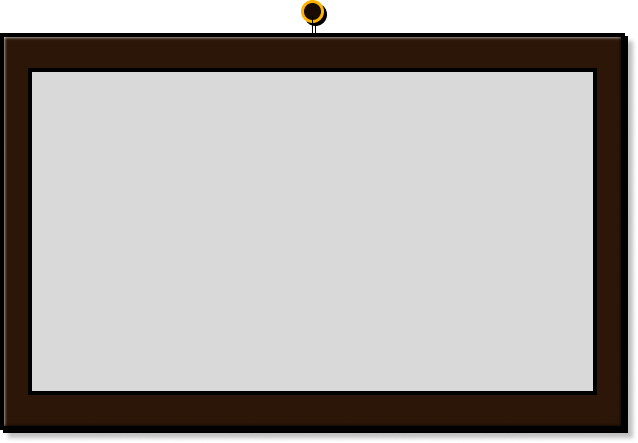
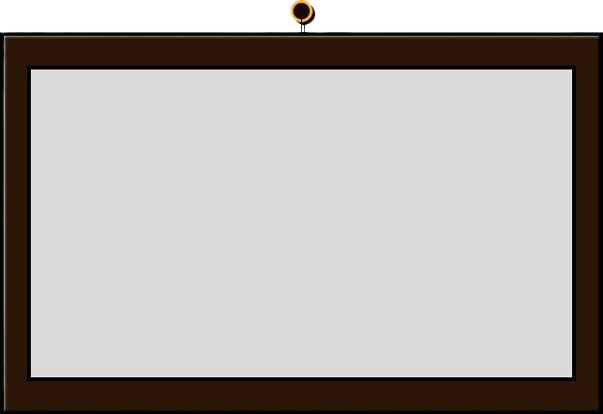
feat: update wallpaper frame art and recalculate photo cutout insets

Changed region(s): [[0.0, 0.0, 1.0, 1.0], [0.0, 0.2319, 0.0299, 0.7536]]

diff --git a/src/components/sections/portfolio/Wallpaper.tsx b/src/components/sections/portfolio/Wallpaper.tsx
@@ -20,11 +20,11 @@ interface WallpaperProps {
   externalUrl?: string;
 }
 
-// The frame's inner "photo" cutout, measured from Wallpaper.png (638x443):
-// top 16.25%, right 7.05%, bottom 11.74%, left 5.02% of the frame's own box.
+// The frame's inner "photo" cutout, measured from Wallpaper.png (603x414):
+// top 16.91%, right 5.14%, bottom 8.94%, left 5.14% of the frame's own box.
 // Insets are shrunk slightly beyond the measured cutout so the photo tucks
 // under the frame's border, hiding any sub-pixel rounding gap.
-const PHOTO_INSET = "15% 6% 10.5% 4.2%";
+const PHOTO_INSET = "15.6% 4% 7.5% 4.2%";
 
 const TITLE_PLATE_SHADOW =
   "4px 4px 4px 0 rgba(0,0,0,0.35), inset -2px -2px 2px 0 rgba(0,0,0,0.5), inset 2px 2px 2px 0 rgba(255,255,255,0.4)";
@@ -63,9 +63,32 @@ export default function Wallpaper({
   const [isOpen, setIsOpen] = useState(false);
   const [shouldRender, setShouldRender] = useState(false);
   const cardRef = useRef<HTMLElement>(null);
+  const innerRef = useRef<HTMLDivElement>(null);
   const backdropRef = useRef<HTMLDivElement>(null);
   const frameRef = useRef<HTMLDivElement>(null);
   const flipStateRef = useRef<Flip.FlipState | null>(null);
+
+  function handleHoverEnter() {
+    gsap.to(innerRef.current, {
+      y: -6,
+      scale: 1.03,
+      rotate: -1.5,
+      boxShadow: "0px 18px 28px rgba(0,0,0,0.45)",
+      duration: 0.3,
+      ease: "power2.out",
+    });
+  }
+
+  function handleHoverLeave() {
+    gsap.to(innerRef.current, {
+      y: 0,
+      scale: 1,
+      rotate: 0,
+      boxShadow: "0px 0px 0px rgba(0,0,0,0)",
+      duration: 0.3,
+      ease: "power2.out",
+    });
+  }
 
   function openModal() {
     if (cardRef.current) {
@@ -132,10 +155,15 @@ export default function Wallpaper({
     );
   }
 
-  const cardClassName =
-    "group relative block aspect-[638/443] w-full cursor-pointer text-left";
+  const cardClassName = "relative block aspect-[603/414] w-full cursor-pointer text-left";
   const cardInner = (
-    <div className="relative h-full w-full transition-transform duration-200 group-hover:scale-[1.02]">
+    <div
+      ref={innerRef}
+      onMouseEnter={handleHoverEnter}
+      onMouseLeave={handleHoverLeave}
+      className="relative h-full w-full"
+      style={{ boxShadow: "0px 0px 0px rgba(0,0,0,0)" }}
+    >
       <FrameArt title={title} media={thumbnailMedia} />
     </div>
   );
@@ -171,7 +199,7 @@ export default function Wallpaper({
         >
           <div
             ref={frameRef}
-            className="relative aspect-[638/443] w-full max-w-4xl"
+            className="relative aspect-[603/414] w-full max-w-4xl"
             onClick={(event) => event.stopPropagation()}
           >
             <FrameArt title={title} media={expandedMedia} />
